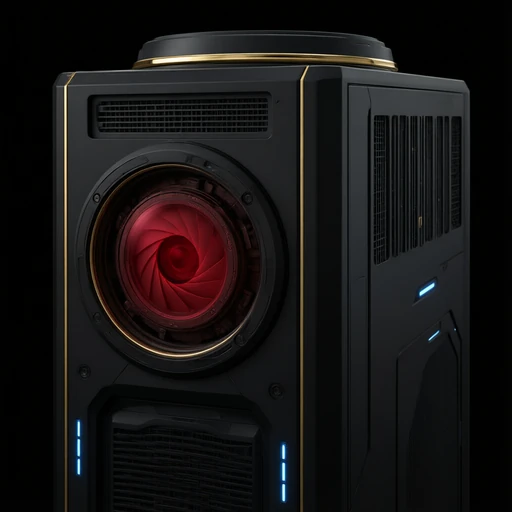
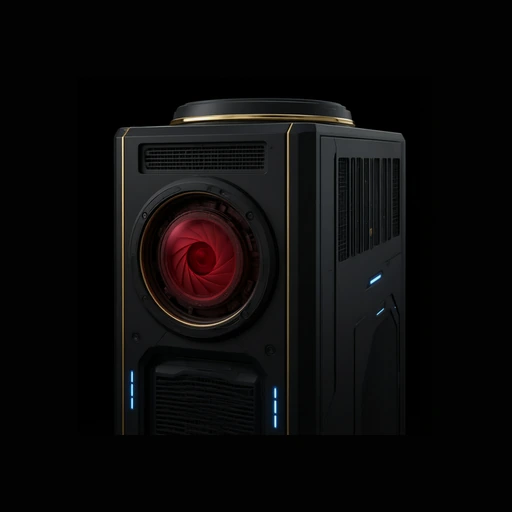
fix: MOSS 圆舱构图（留边同色，不抠图）
- 原图机器塞满画幅，圆舱裁切后只剩碎片：缩到画面 62–70% 居中
- 留边色取原图边界中位色，避免圆舱里出现深色方块
- MOSS 舱体底色固定 #07090d（不跟随主题），设备图在两种主题下都成立
- 移除之前的透明抠图（机身暗部会被挖穿）

Changed region(s): [[0.0938, 0.0312, 0.9375, 1.0], [0.4375, 0.8125, 0.5, 0.875]]

diff --git a/client/client.js b/client/client.js
@@ -37,7 +37,7 @@ window.__ModuleLoader__.load({
     var ROOT_ID = 'dsh-pet-liang-root'
     var POS_KEY = 'dsh-pet-liang:pos'
     /* 素材改了名字没变，加一个版本号强制浏览器重新取（宿主给的是 immutable 缓存） */
-    var ASSET_V = '16'
+    var ASSET_V = '20'
     var STYLE_ID = 'dsh-pet-liang-style'
 
     /** 四档推理等级对应的称呼与氛围色。 */
@@ -248,8 +248,10 @@ window.__ModuleLoader__.load({
       'body:not([data-ds-dark-theme]) #' + ROOT_ID + ' .orb-face{background:radial-gradient(circle at 50% 30%,#f4f7fb 0%,#dfe6ef 80%);',
       'box-shadow:inset 0 0 18px rgba(0,0,0,.12),0 8px 20px rgba(0,0,0,.15);}',
 
-      '#' + ROOT_ID + ' .orb-img{width:100%;height:100%;object-fit:cover;object-position:50% 18%;border-radius:50%;',
-      '#' + ROOT_ID + '[data-character="moss"] .orb-img{object-position:50% 46%;}',
+            '#' + ROOT_ID + '[data-character="moss"] .orb-face{background:#07090d;}',
+      'body:not([data-ds-dark-theme]) #' + ROOT_ID + '[data-character="moss"] .orb-face{background:#07090d;}',
+'#' + ROOT_ID + ' .orb-img{width:100%;height:100%;object-fit:cover;object-position:50% 18%;border-radius:50%;',
+      '#' + ROOT_ID + '[data-character="moss"] .orb-img{object-position:50% 50%;}',
       'animation:orb-breathe 4.6s ease-in-out infinite;transform-origin:50% 60%;}',
       '#' + ROOT_ID + '[data-working="1"] .orb-img{animation-duration:1.7s;}',
 

diff --git a/README.md b/README.md
@@ -6,7 +6,9 @@
 
 ![四档梁神：圆形头像舱](screenshots/05-tiers.png)
 
-![梁神 / MOSS 工作态](screenshots/01-liang.png) ![MOSS 执行中](screenshots/02-moss-working.png)
+![梁神 Max](screenshots/01-liang.png)
+
+![MOSS 空闲 / 执行中](screenshots/02-moss-states.png)
 
 ## 它按什么规则变
 
